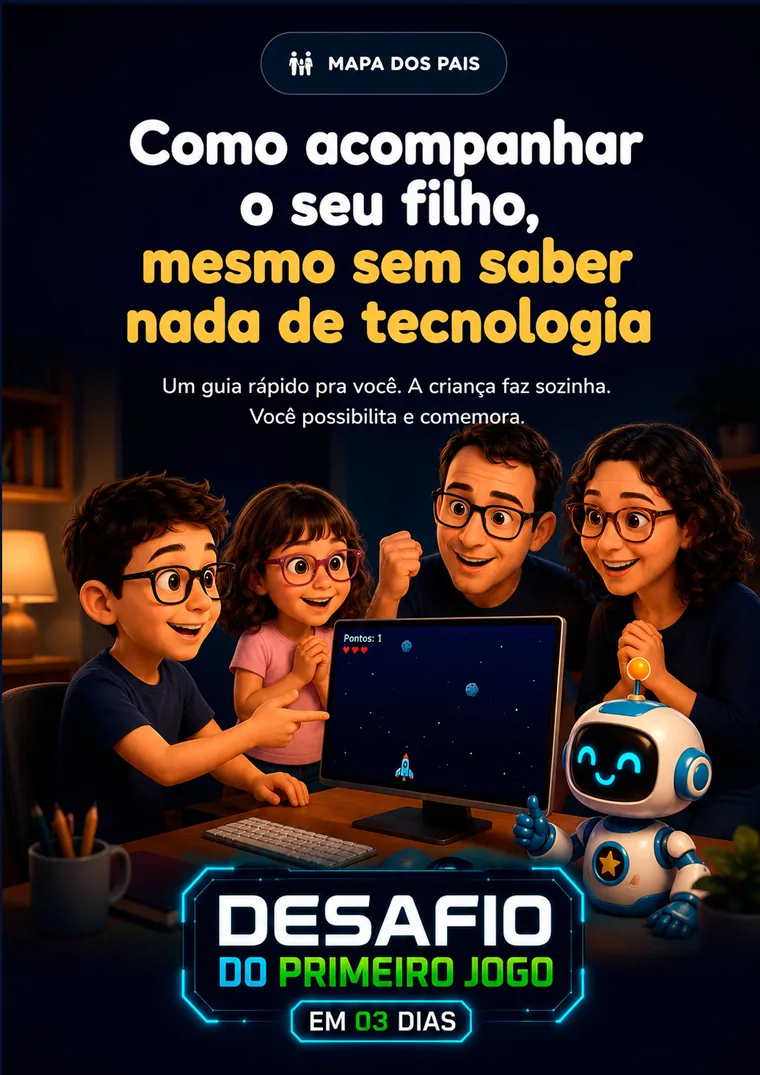
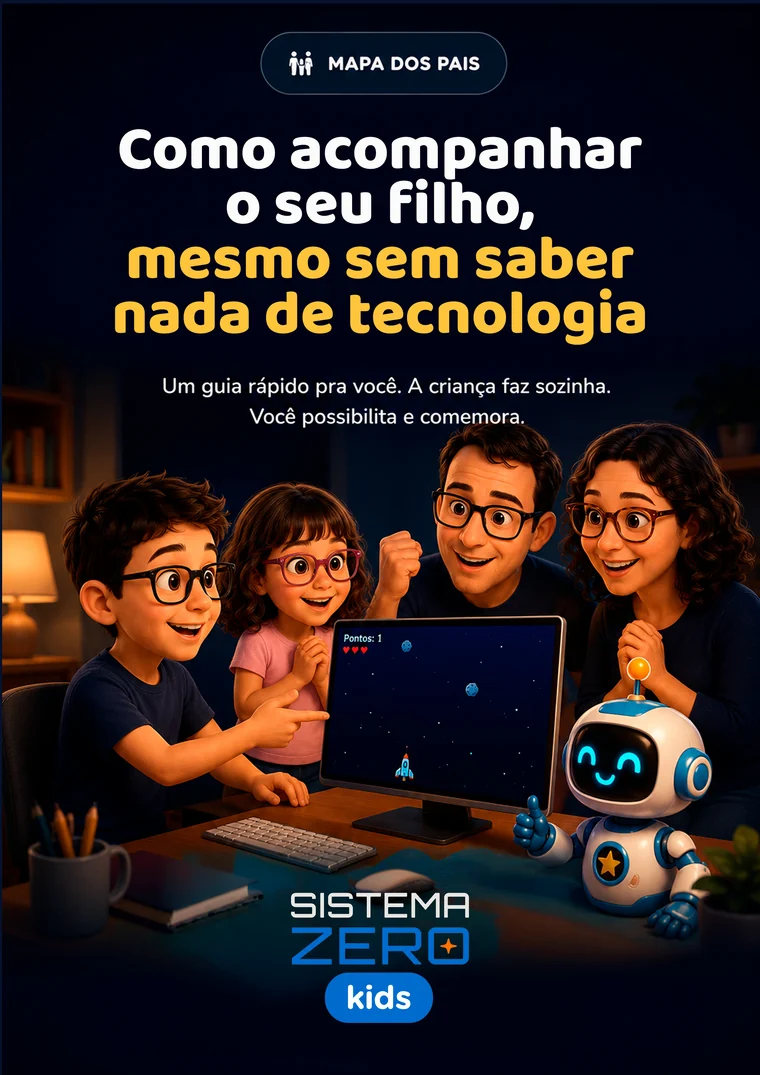
feat(funnel): página da oferta do desafio-primeiro-jogo (conteúdo + prints) + ajuste no editor de aula (admin)
install --frozen-lockfile/test/typecheck/biome verdes; commit a partir do objeto de árvore verificado.

Changed region(s): [[0.1513, 0.0921, 0.8776, 0.3377], [0.2118, 0.7981, 0.7868, 0.9823]]

diff --git a/packages/funnel/src/funnels/desafio-primeiro-jogo/content.ts b/packages/funnel/src/funnels/desafio-primeiro-jogo/content.ts
@@ -296,7 +296,7 @@ export const DESAFIO_TOTAL = DESAFIO_QUIZ_STEPS.length
 // {resposta_p3}/{resposta_p5}/{resposta_p8}/{resposta_p10}/{resultado} são resolvidos
 // por `desafioRenderCorpo`.
 export const DESAFIO_FECHO =
-  'O foco intenso do seu filho é uma força. Em 3 dias, esse interesse pode virar o primeiro jogo criado por ele, do começo ao fim.'
+  'O foco intenso do seu filho é uma força. Em 5 dias, esse interesse pode virar o primeiro jogo criado por ele, do começo ao fim.'
 
 // Bloco em realce acima do fecho: espelha o que o pai declarou na P8 (o que sonha ver)
 // e na P10 (o que sonha que ele se torne). Resolvido por `desafioRenderCorpo`.
@@ -392,8 +392,8 @@ export const DESAFIO_RESULT_PROFILES: Record<string, ResultProfile> = {
 // intro acima do H1, que retoma a segmentação do quiz). `titulo`/`botao` existem
 // por causa do tipo; o body bespoke não os lê. Sem perfil → `padrao` (sem intro).
 const HERO_H1 =
-  'Use o interesse intenso do seu filho a favor dele: em 3 dias, ele monta o primeiro jogo'
-const HERO_BOTAO = 'Quero o primeiro jogo do meu filho em 3 dias'
+  'Use o interesse intenso do seu filho a favor dele: em 5 dias, ele monta o primeiro jogo'
+const HERO_BOTAO = 'Quero o primeiro jogo do meu filho em 5 dias'
 
 export const DESAFIO_HERO_PADRAO: HeroVariacao = {
   titulo: HERO_H1,
@@ -405,25 +405,25 @@ export const DESAFIO_HERO_POR_PERFIL: Record<string, HeroVariacao> = {
   explorador: {
     titulo: HERO_H1,
     abertura:
-      'Para o foco de O Explorador, o caminho é uma frente única e curta para fechar, com uma vitória visível por dia; é o que estes 3 dias fazem.',
+      'Para o foco de O Explorador, o caminho é uma frente única e curta para fechar, com uma vitória visível por dia; é o que estes 5 dias fazem.',
     botao: HERO_BOTAO,
   },
   especialista: {
     titulo: HERO_H1,
     abertura:
-      'Para o foco de O Especialista, o caminho é transformar o tema que ele domina em algo feito pelas mãos dele; é o que estes 3 dias fazem.',
+      'Para o foco de O Especialista, o caminho é transformar o tema que ele domina em algo feito pelas mãos dele; é o que estes 5 dias fazem.',
     botao: HERO_BOTAO,
   },
   foguete: {
     titulo: HERO_H1,
     abertura:
-      'Para o foco de O Foguete, o caminho é encurtar a distância entre começar e ver algo funcionando; é o que estes 3 dias fazem.',
+      'Para o foco de O Foguete, o caminho é encurtar a distância entre começar e ver algo funcionando; é o que estes 5 dias fazem.',
     botao: HERO_BOTAO,
   },
   investigador: {
     titulo: HERO_H1,
     abertura:
-      'Para o foco de O Investigador, o caminho é uma base aberta para ele mexer por dentro e definir as próprias regras; é o que estes 3 dias fazem.',
+      'Para o foco de O Investigador, o caminho é uma base aberta para ele mexer por dentro e definir as próprias regras; é o que estes 5 dias fazem.',
     botao: HERO_BOTAO,
   },
 }
@@ -432,7 +432,7 @@ export const DESAFIO_HERO_POR_PERFIL: Record<string, HeroVariacao> = {
 export const DESAFIO_OBRIGADO: FunnelObrigado = {
   intro: 'Obrigado por investir no potencial do seu filho.',
   entrega: [
-    'Trilha guiada de 3 dias (uma vitória por dia)',
+    'Trilha guiada de 5 dias (uma vitória por dia)',
     'Estúdio e blocos feitos pra criança, sem instalar nada',
     'Link do jogo pra compartilhar com a família e os amigos',
     'Passo a passo em vídeo (aula guiada)',

diff --git a/packages/funnel/src/content/legal-kids.ts b/packages/funnel/src/content/legal-kids.ts
@@ -162,7 +162,7 @@ export const TERMOS_KIDS: LegalDoc = {
     {
       titulo: '2. O que é e como funciona o Produto',
       paragrafos: [
-        `O ${PRODUTO} é um material digital de caráter educacional: uma trilha de 3 dias em que a criança monta o primeiro joguinho jogável, com passo a passo em vídeo e um estúdio feito para crianças, sem instalar nada. A compra é feita neste site, com pagamento único via Pix ou cartão de crédito.`,
+        `O ${PRODUTO} é um material digital de caráter educacional: uma trilha de 5 dias em que a criança monta o primeiro joguinho jogável, com passo a passo em vídeo e um estúdio feito para crianças, sem instalar nada. A compra é feita neste site, com pagamento único via Pix ou cartão de crédito.`,
         'Após a confirmação do pagamento, o acesso é liberado na área de membros e as instruções de primeiro acesso são enviadas ao e-mail do Responsável informado na compra. Por isso, é essencial que os dados do checkout estejam corretos.',
         'A Empresa pode, a seu critério, atualizar o conteúdo, incluir bônus e melhorar a entrega do Produto, sempre preservando o acesso ao conteúdo adquirido.',
       ],

diff --git a/packages/admin/src/app/admin/membros/cursos/[courseId]/aulas/[lessonId]/lesson-editor-client.tsx b/packages/admin/src/app/admin/membros/cursos/[courseId]/aulas/[lessonId]/lesson-editor-client.tsx
@@ -1384,13 +1384,13 @@ export function LessonEditorClient({
               <Field
                 label="Frase do curso"
                 htmlFor="cert-phrase"
-                hint="Logo abaixo do nome — o que o aluno concluiu (ex.: 'concluiu o Desafio do Primeiro Jogo em 3 dias')."
+                hint="Logo abaixo do nome — o que o aluno concluiu (ex.: 'concluiu o Desafio do Primeiro Jogo em 5 dias')."
               >
                 <Input
                   id="cert-phrase"
                   value={blockForm.certCoursePhrase}
                   maxLength={300}
-                  placeholder="concluiu o Desafio do Primeiro Jogo em 3 dias"
+                  placeholder="concluiu o Desafio do Primeiro Jogo em 5 dias"
                   onChange={(e) =>
                     setBlockForm((f) => ({ ...f, certCoursePhrase: e.target.value }))
                   }

diff --git a/packages/funnel/src/funnels/desafio-primeiro-jogo/index.ts b/packages/funnel/src/funnels/desafio-primeiro-jogo/index.ts
@@ -35,9 +35,9 @@ export const DESAFIO_PRIMEIRO_JOGO: FunnelDef = {
   // Sem capa dedicada: o checkout usa a arte clássica do produto (a mesma de antes).
   checkoutImage: 'hero-desafio.webp',
   byline: 'Helena e Júlio · Sistema Zero',
-  seoTitle: 'Desafio do Primeiro Jogo · Seu filho cria o primeiro jogo em 3 dias',
+  seoTitle: 'Desafio do Primeiro Jogo · Seu filho cria o primeiro jogo em 5 dias',
   seoDescription:
-    'Trilha guiada de 3 dias para crianças a partir de 9 anos criarem o primeiro jogo jogável, dentro do Sistema Zero Studio. Comunicação dirigida aos pais.',
+    'Trilha guiada de 5 dias para crianças a partir de 9 anos criarem o primeiro jogo jogável, dentro do Sistema Zero Studio. Comunicação dirigida aos pais.',
   theme: 'kids',
   lifetimeAccess: true,
   steps: { quiz: true, resultado: true, upsell: false, downsell: false },
